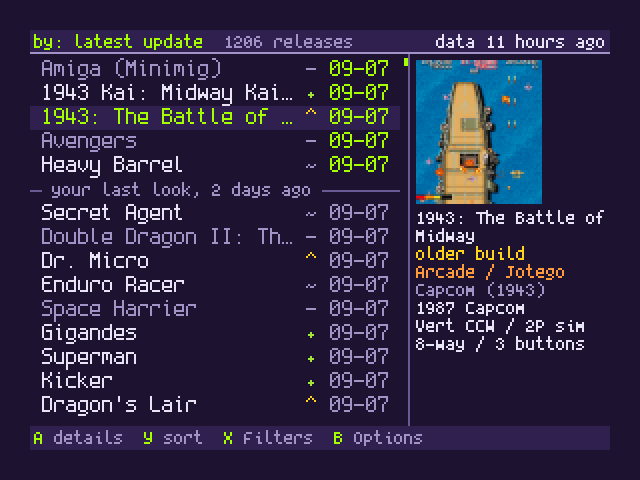
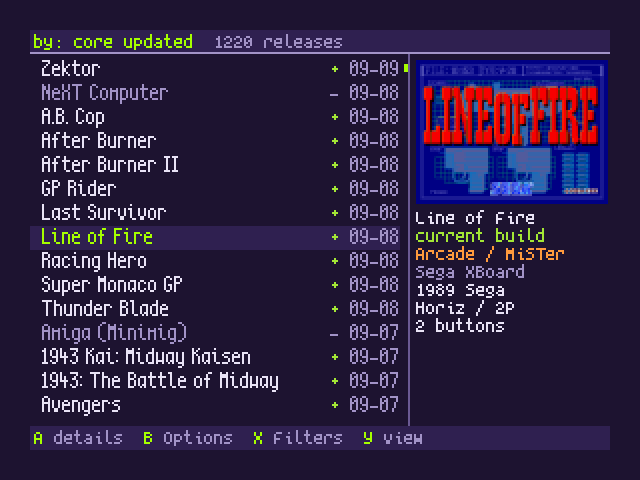
Reshoot the screenshots on v1.0.24 and add the list in tate
Every shot came from the current build on a real board, captured over the
debug API rather than photographed, so the pixels are exact.

A different game in each, all from the MiSTer Distribution rather than a
third-party source, and each one the card holds several alternatives for:
Line of Fire in the horizontal list, Strikers 1945 in the tate list,
Raiden II in Details, where the version line reads 41, and Robotron: 2084
filling the artwork screen. Both list shots sit in Core updated on a
recently updated game, so the rows around them carry this month's dates
instead of a column of identical years.

docs/screenshots/list-tate.png is new: the main list on a rotated screen,
which the set had only shown for Details and Filters. The alt text now
names what each shot is of.

diff --git a/README.md b/README.md
@@ -8,9 +8,10 @@ It follows new releases and updated builds across the catalogue. The interface
 uses a 320x240 framebuffer, with horizontal and rotated CRT layouts.
 
 <p>
-  <img src="docs/screenshots/list.png" alt="Horizontal release list" width="320" height="240">
-  <img src="docs/screenshots/details-tate.png" alt="Details in tate" width="240" height="320">
-  <img src="docs/screenshots/artwork.png" alt="Full-screen game artwork" width="320" height="240">
+  <img src="docs/screenshots/list.png" alt="The release list on a horizontal screen, Line of Fire selected, with its picture and specs beside the titles" width="320" height="240">
+  <img src="docs/screenshots/list-tate.png" alt="The same list on a rotated (tate) screen, Strikers 1945 selected, the picture under the titles" width="240" height="320">
+  <img src="docs/screenshots/details-tate.png" alt="Raiden II's details in tate, showing 41 versions to pick from" width="240" height="320">
+  <img src="docs/screenshots/artwork.png" alt="Robotron: 2084 artwork filling the screen" width="320" height="240">
   <img src="docs/screenshots/safe-zone.png" alt="Safe-zone adjustment" width="320" height="240">
   <img src="docs/screenshots/options.png" alt="Options with the screensaver setting selected" width="320" height="240">
   <img src="docs/screenshots/filters-tate.png" alt="Filters in tate" width="240" height="320">
